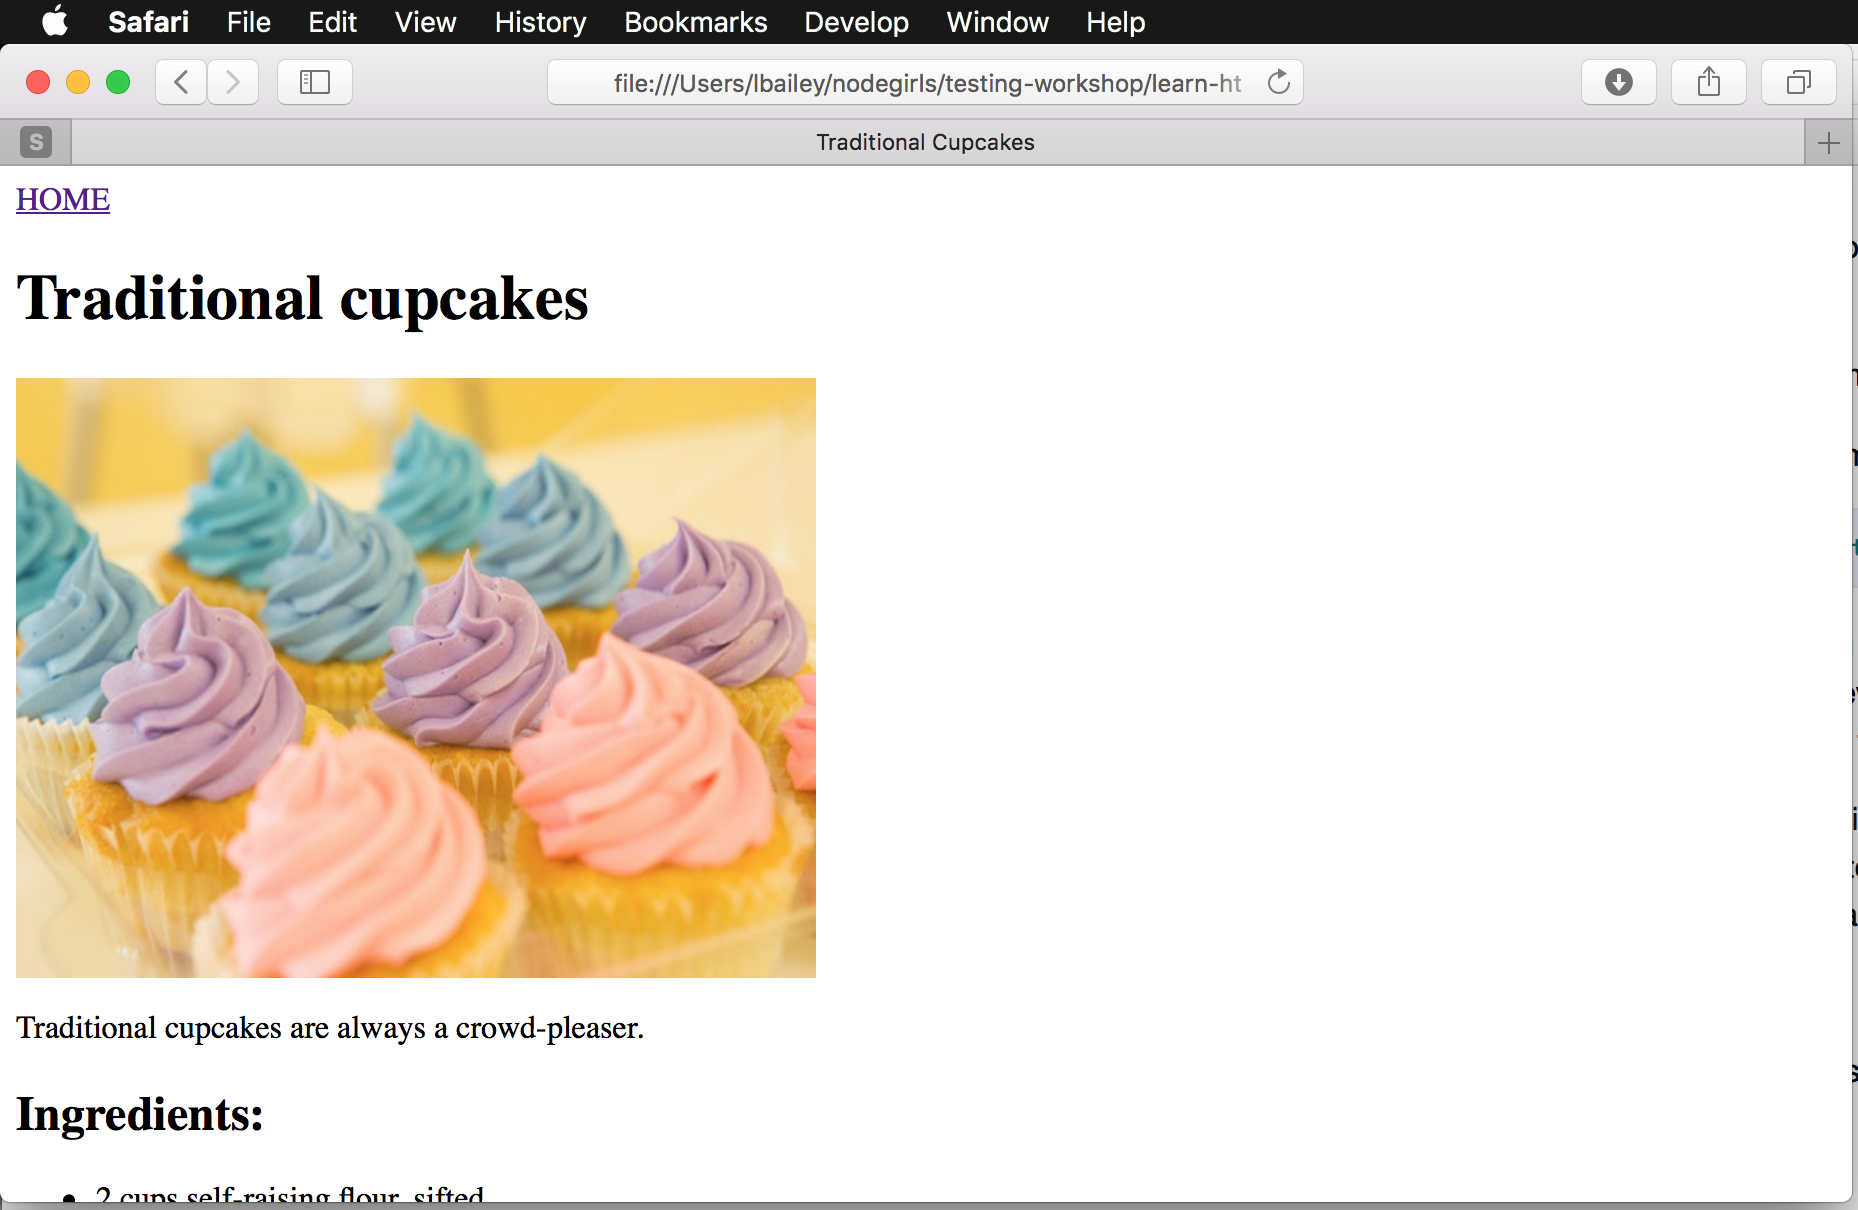
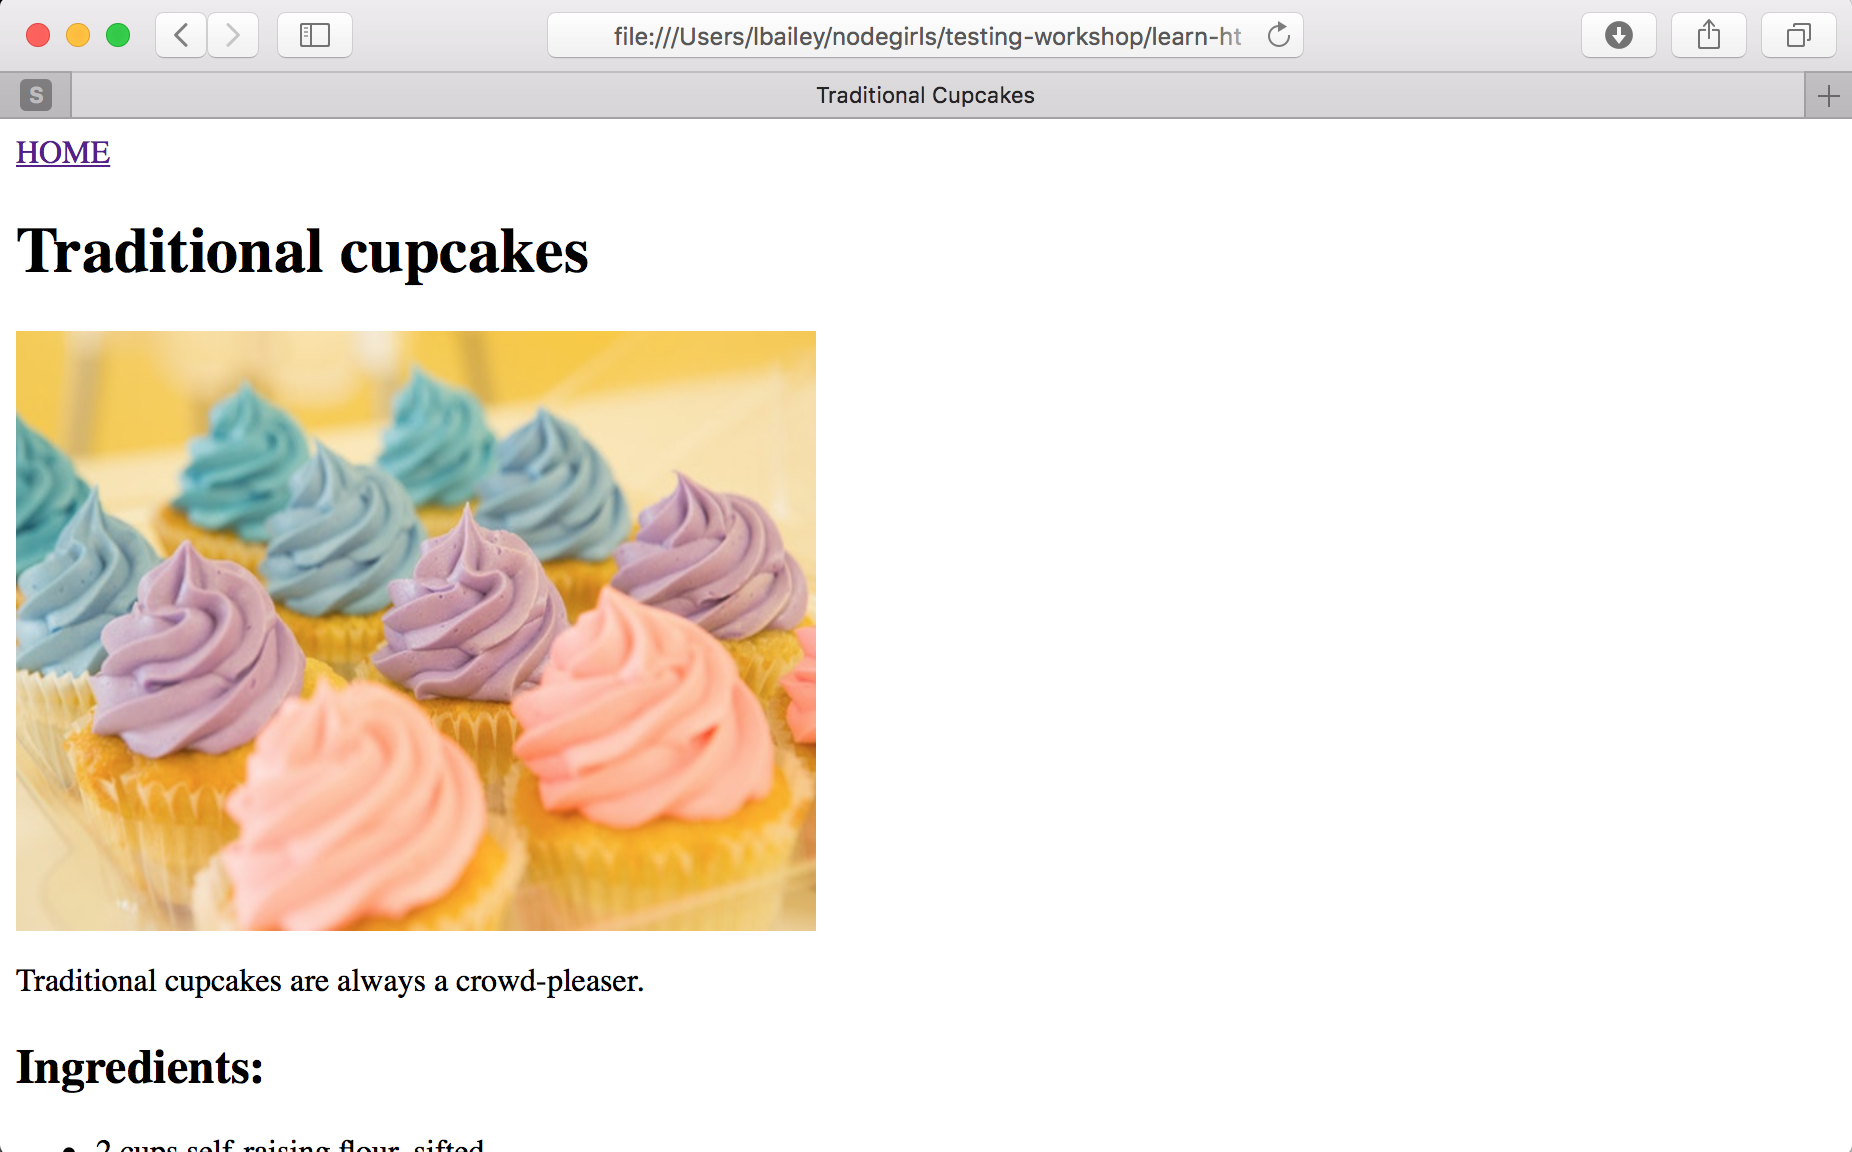
rebrand as musescode

Changed region(s): [[0.0, 0.0, 1.0, 1.0], [0.0, 0.8438, 0.3386, 0.875]]

diff --git a/_includes/footer.html b/_includes/footer.html
@@ -4,13 +4,28 @@
 
     <div class="social-media centered">
       <ul>
-        <li><i class="fa fa-home" aria-hidden="true"></i>&nbsp;&nbsp;<a href="http://nodegirls.com.au/" target="_blank">nodegirls.com.au</a></li>
-        <li><i class="fa fa-paper-plane-o" aria-hidden="true"></i>&nbsp;&nbsp;<a href="mailto:info@nodegirls.com.au">info@nodegirls.com.au</a></li>
+        <li>
+          <i class="fa fa-home" aria-hidden="true"></i>&nbsp;&nbsp;
+          <a href="https://musescodejs.org/" target="_blank">musescodejs.org</a>
+        </li>
+        <li>
+          <i class="fa fa-paper-plane-o" aria-hidden="true"></i>&nbsp;&nbsp;
+          <a href="mailto:info@musescodejs.org">info@musescodejs.org</a>
+        </li>
       </ul>
       <ul>
-        <li><i class="fa fa-facebook" aria-hidden="true"></i>&nbsp;&nbsp;&nbsp;<a href="https://www.facebook.com/NodeGirlsAustralia/" target="_blank">facebook.com/NodeGirlsAustralia</a></li>
-        <li><i class="fa fa-github-alt" aria-hidden="true"></i>&nbsp;&nbsp;<a href="https://github.com/node-girls-australia" target="_blank">github.com/node-girls-australia</a></li>
-        <li><i class="fa fa-twitter" aria-hidden="true"></i>&nbsp;&nbsp;<a href="https://twitter.com/NodeGirlsBri" target="_blank">twitter.com/NodeGirlsBri</a></li>
+        <li>
+          <i class="fa fa-facebook" aria-hidden="true"></i>&nbsp;&nbsp;&nbsp;
+          <a href="https://www.facebook.com/MusesCodeJS" target="_blank">facebook.com/MusesCodeJS</a>
+          </li>
+        <li>
+          <i class="fa fa-github-alt" aria-hidden="true"></i>&nbsp;&nbsp;
+          <a href="https://github.com/muses-code-js" target="_blank">github.com/muses-code-js</a>
+          </li>
+        <li>
+          <i class="fa fa-twitter" aria-hidden="true"></i>&nbsp;&nbsp;
+          <a href="https://twitter.com/BrisMuses" target="_blank">twitter.com/BrisMuses</a>
+          </li>
       </ul>
     </div>
     <!-- <h2 class="footer-heading">{{ site.title | escape }}</h2>

diff --git a/_sass/step-nav.scss b/_sass/step-nav.scss
@@ -1,13 +1,13 @@
 div.step-nav {
   // border: 1px solid #e7e7e7;
   // background-color: #efefef;
-  border-right: 3px solid $nodegreen;
+  border-right: 3px solid $musespurple;
   // float: right;
   max-width: 250px;
   font-size: 16px;
   display: inline-block;
   margin-right: 0px;
-  padding-top: 30px;
+  padding-top: 0px;
   h3 {
     font-size: 18px;
     font-weight: bold;
@@ -36,7 +36,7 @@ ul.main {
       }
     }
     li.active {
-      background-color: $nodegreen;
+      background-color: $musespurple;
       a {
         color: white;
       }
@@ -61,9 +61,9 @@ ul.main {
   div.step-nav {
     position: absolute;
     left: -230px;
-    border-right: 3px solid $nodegreen; //#e7e7e7;
-    border-top: 3px solid $nodegreen;
-    border-bottom: 3px solid $nodegreen;
+    border-right: 3px solid $musespurple; //#e7e7e7;
+    border-top: 3px solid $musespurple;
+    border-bottom: 3px solid $musespurple;
     background-color: #efefef;
     border-radius: 0px 5px 5px 0px;
     box-shadow: 2px 2px 2px 1px grey;
@@ -109,7 +109,7 @@ ul.main {
       }
       li.active {
         display: block;
-        background-color: $nodegreen;
+        background-color: $musespurple;
         a {
           color: white;
         }

diff --git a/assets/main.scss b/assets/main.scss
@@ -4,10 +4,15 @@
 
 $nodegreen: #4CAF50;
 
+$musespurple: #7985F0;
+// $musespurple: #7ddbba;
+$musesred: #DA3296;
+
 @import "minima";
 @import "step-nav";
 @import "reference-table";
 @import "solution";
+@import "draft";
 
 div.nav {
   display: inline-block;
@@ -34,14 +39,14 @@ div.page-nav {
 }
 
 a.go-link {
-  background: $nodegreen;
+  background: $musespurple;
   padding: 9px 14px 8px 14px;
   border-radius: 6px;
-  border: 2px solid $nodegreen;
+  border: 2px solid $musespurple;
   color: white !important;
   text-decoration: none;
   &:hover {
-    border: 2px solid darken($nodegreen, 10%) !important;
+    border: 2px solid darken($musespurple, 10%) !important;
   }
 }
 
@@ -58,4 +63,33 @@ pre {
 .imgbox {
   box-shadow: black 0px 0px 10px;
   border-radius: 5px;
+}
+
+
+/***************************
+  LOGO
+***************************/
+svg {
+  height: 60%;
+  width: 60%;
+  margin-bottom: 20px;
+}
+
+svg.small {
+  height: 35%;
+  width: 35%;
+  margin-top: 5px;
+}
+
+.nav-logo {
+  width: 50px;
+  padding-bottom:6px;
+}
+
+.site-title {
+  letter-spacing: 2px;
+}
+.site-title span {
+  margin-left: 100px;
+  letter-spacing: 1.5px;
 }

diff --git a/_includes/head.html b/_includes/head.html
@@ -3,9 +3,10 @@
   <meta http-equiv="X-UA-Compatible" content="IE=edge">
   <meta name="viewport" content="width=device-width, initial-scale=1">
 
-  <title>{% if page.title %}NodeGirls: {{ page.title | escape }}{% else %}NodeGirls {{ site.workshopname | escape }}{% endif %}</title>
+  <title>{% if page.title %}Muses Code: {{ page.title | escape }}{% else %}Muses Code {{ site.workshopname | escape }}{% endif %}</title>
   <meta name="description" content="{{ page.excerpt | default: site.description | strip_html | normalize_whitespace | truncate: 160 | escape }}">
-  <link rel="icon" type="image/x-icon" href="/express-workshop-2/favicon.ico" />
+  <link rel="icon" type="image/x-icon" href="{{ "/assets/favicon.ico" | relative_url }}" />
+  
   <link rel="stylesheet" href="{{ "/assets/main.css" | relative_url }}">
   <link rel="stylesheet" href="https://maxcdn.bootstrapcdn.com/font-awesome/4.7.0/css/font-awesome.min.css">
   <link rel="canonical" href="{{ page.url | replace:'index.html','' | absolute_url }}">

diff --git a/_sass/minima/_layout.scss b/_sass/minima/_layout.scss
@@ -5,7 +5,6 @@
   border-top: 5px solid $grey-color-dark;
   border-bottom: 1px solid $grey-color-light;
   min-height: $spacing-unit * 1.865;
-
   // Positioning context for the mobile navigation icon
   position: relative;
 }
@@ -106,7 +105,7 @@
  * Site footer
  */
  footer {
- 	background: #333;
+ 	background: $musesred;
  	position: absolute;
   left: 0;
   bottom: 0;
@@ -119,13 +118,13 @@
  	  margin-bottom: 10px;
 
     a {
-     	color: #a7a7a7;
+     	color: #fff;
      	font-size: 16px;
      	font-weight: bold;
      	text-decoration: none;
       &:hover {
      	  text-decoration: underline;
-        color: $nodegreen;
+        color: $musespurple;
       }
     }
     
@@ -220,7 +219,7 @@
 
   h2 {
     @include relative-font-size(2);
-    border-bottom: 3px solid $nodegreen;
+    border-bottom: 3px solid $musespurple;
 
     @include media-query($on-laptop) {
       @include relative-font-size(1.75);

diff --git a/_includes/header.html b/_includes/header.html
@@ -3,7 +3,9 @@
   <div class="wrapper">
     {% assign default_paths = site.pages | map: "path" %}
     {% assign page_paths = site.header_pages | default: default_paths %}
-    <a class="site-title" href="{{ "/" | relative_url }}">{{ site.title | escape }} <small>{{ site.workshopname | escape }}</small></a>
+    
+    <a class="site-title" href="https://musescodejs.org/"><img class="nav-logo" src="{{ "/assets/muses-logo-small.png" | relative_url }}" /> {{ site.title | escape }}</a>
+    <a class="site-title" href="{{ "/" | relative_url }}"><span>{{ site.workshopname | escape }}</span></a>
 
     {% if page_paths %}
       <nav class="site-nav">

diff --git a/_layouts/step.html b/_layouts/step.html
@@ -2,16 +2,20 @@
 layout: default
 ---
 <article class="post">
-
+  
   <header class="post-header">
-    <h2 class="post-title"> Step {{page.number}} - {{ page.title | escape }}</h1>
-  </header>
+    {% if page.status %}
+    <div id="watermark">{{ page.status }}</div> 
+    {% endif %}  
+    <h2 class="post-title"> Step {{page.number}} - {{ page.title | escape }}</h2>
+    </header>
 
   <div class="post-content">
     {{ content }}
     {% include page-nav.html %}
     {% include keywords-table.html %}
-
+    {% include reference.html %}
+    
   </div>
 
 </article>

diff --git a/_sass/solution.scss b/_sass/solution.scss
@@ -4,8 +4,8 @@
 
 h5.toggle {
   font-size: 20px;
-  background-color: $nodegreen;
-  border: 2px solid darken($nodegreen, 10%);
+  background-color: $musespurple;
+  border: 2px solid darken($musespurple, 10%);
   border-radius: 4px;
   padding: 7px 10px 5px 10px;
   cursor: pointer;

diff --git a/_includes/reference.html b/_includes/reference.html
@@ -1,0 +1,11 @@
+{% if page.references %}
+<h1>References:</h1>
+<ul>
+  {% for reference in page.references %}
+  <li>
+    <a href="{{ reference.url }}">{{ reference.label }}</a>
+  </li>
+
+  {% endfor %}
+</ul>
+{% endif %}

diff --git a/_sass/draft.scss b/_sass/draft.scss
@@ -1,0 +1,10 @@
+div#watermark {
+display: block;
+padding: 3px 15px;
+background-color: lightseagreen;
+color: white;
+font-size: 28px;
+margin: 10px;
+border: 3px solid lightseagreen;
+border-radius: 7px; 
+}
